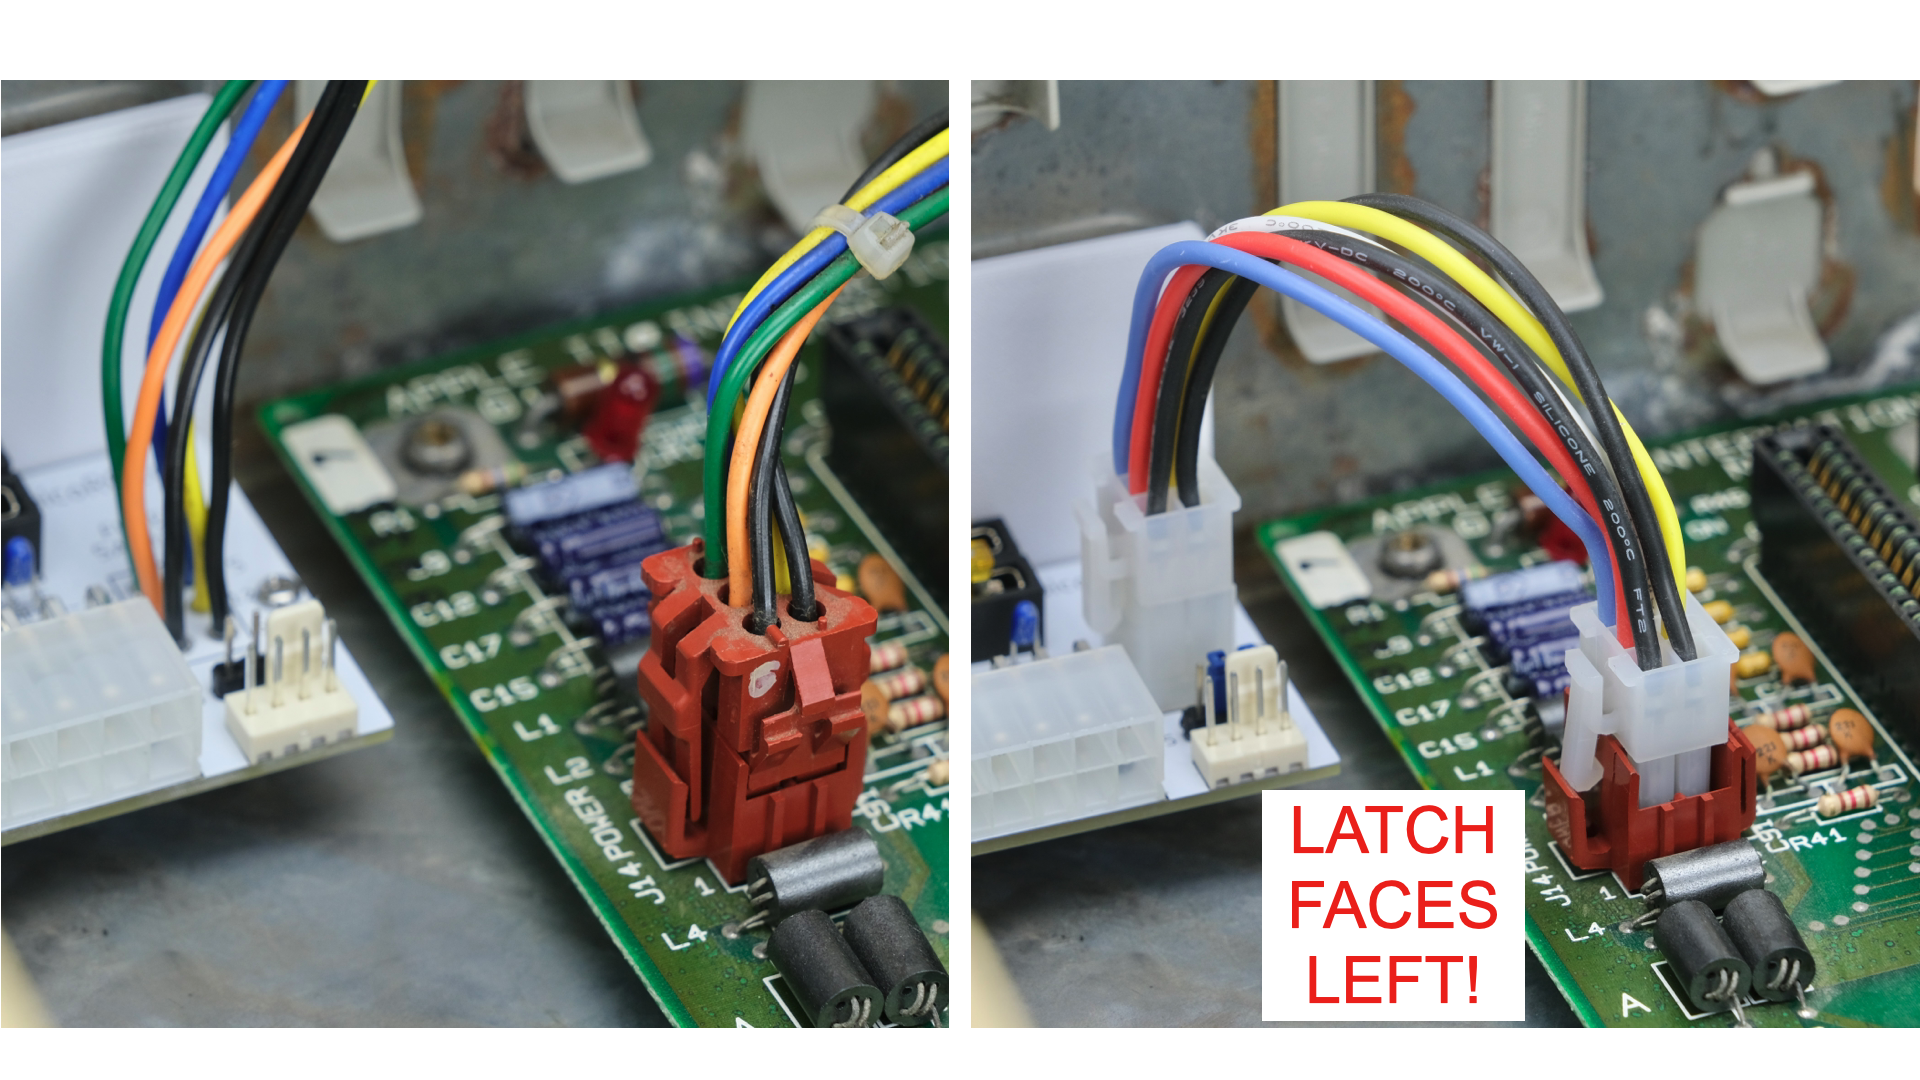
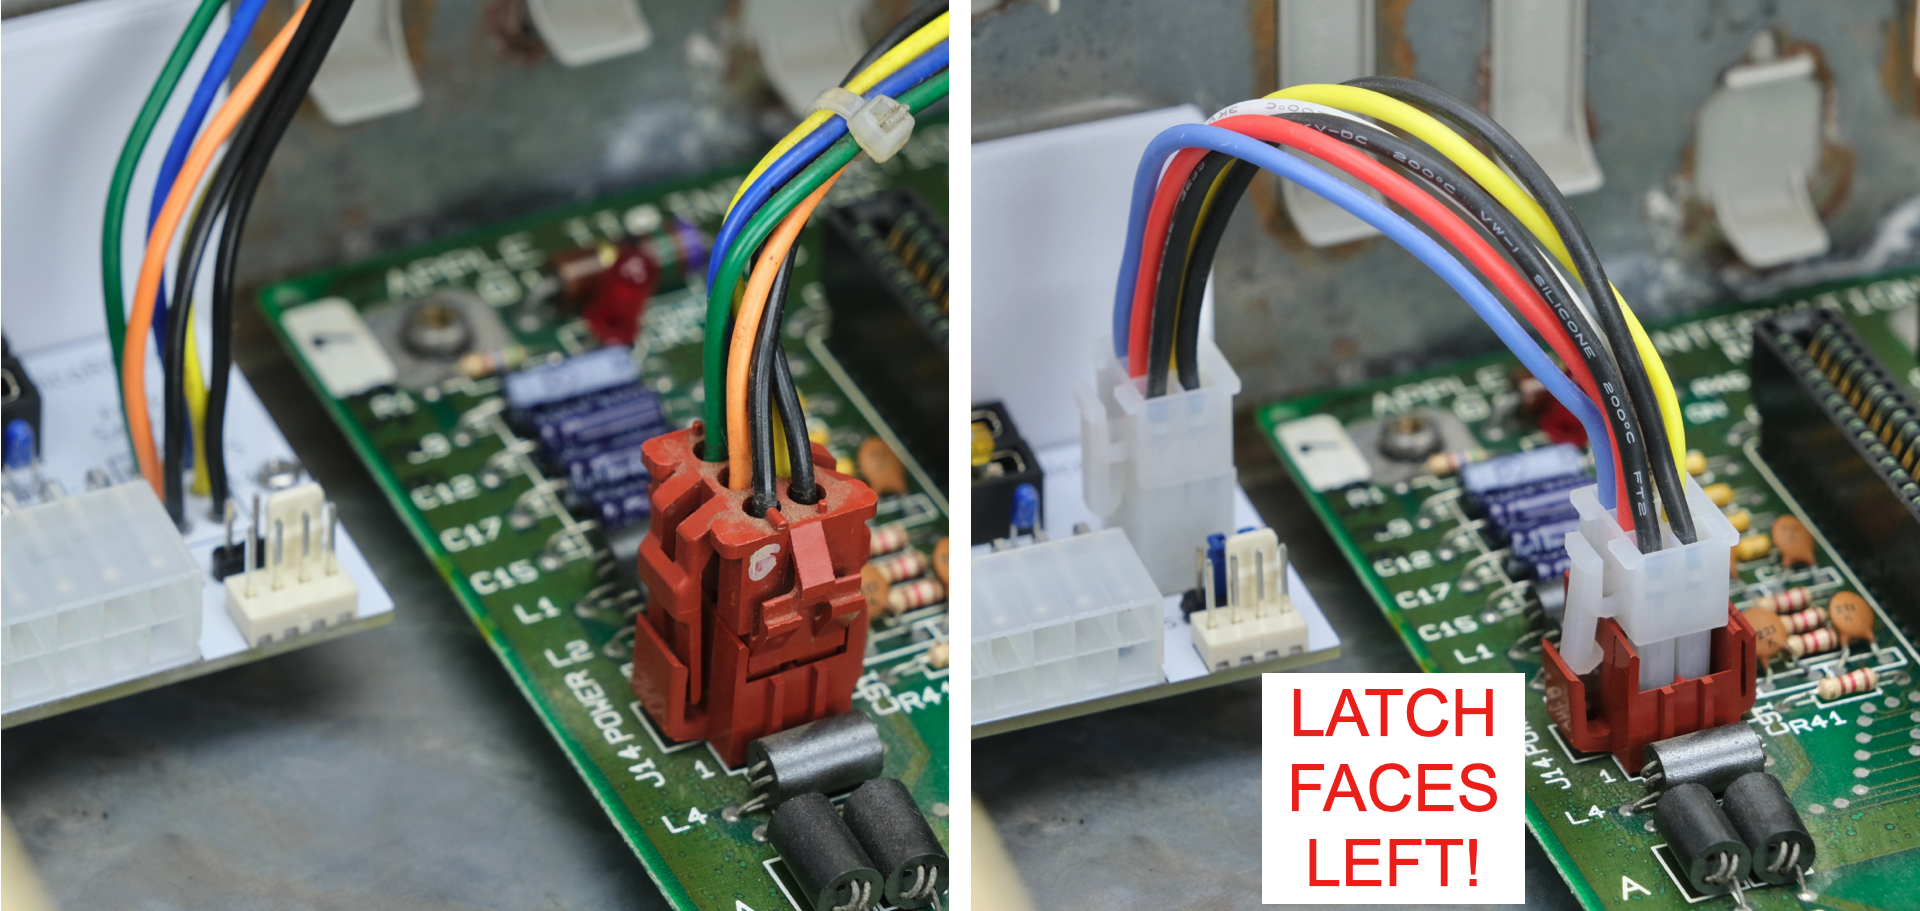
fixed typo

diff --git a/appleii.md b/appleii.md
@@ -250,7 +250,7 @@ If using existing harness, make sure the voltage readings matches the photo exac
 
 ![Alt text](photos_appleii/inside.jpeg)
 
-* Plug in the connector.
+* Connect the power cable
 
 * If using new cable, make sure the **LATCH FACES LEFT** on **BOTH ENDS**.
 

diff --git a/mac_se_se30.md b/mac_se_se30.md
@@ -1,4 +1,4 @@
-# PicoPSU adaptor for Macintosh SE & SE/30
+# PicoPSU Adaptor for Macintosh SE & SE/30
 
 [Purchase Link](https://www.tindie.com/products/29184/) | [Official Discord](https://discord.gg/HAuuh3pAmB) | [Table of Contents](#table-of-contents)
 
